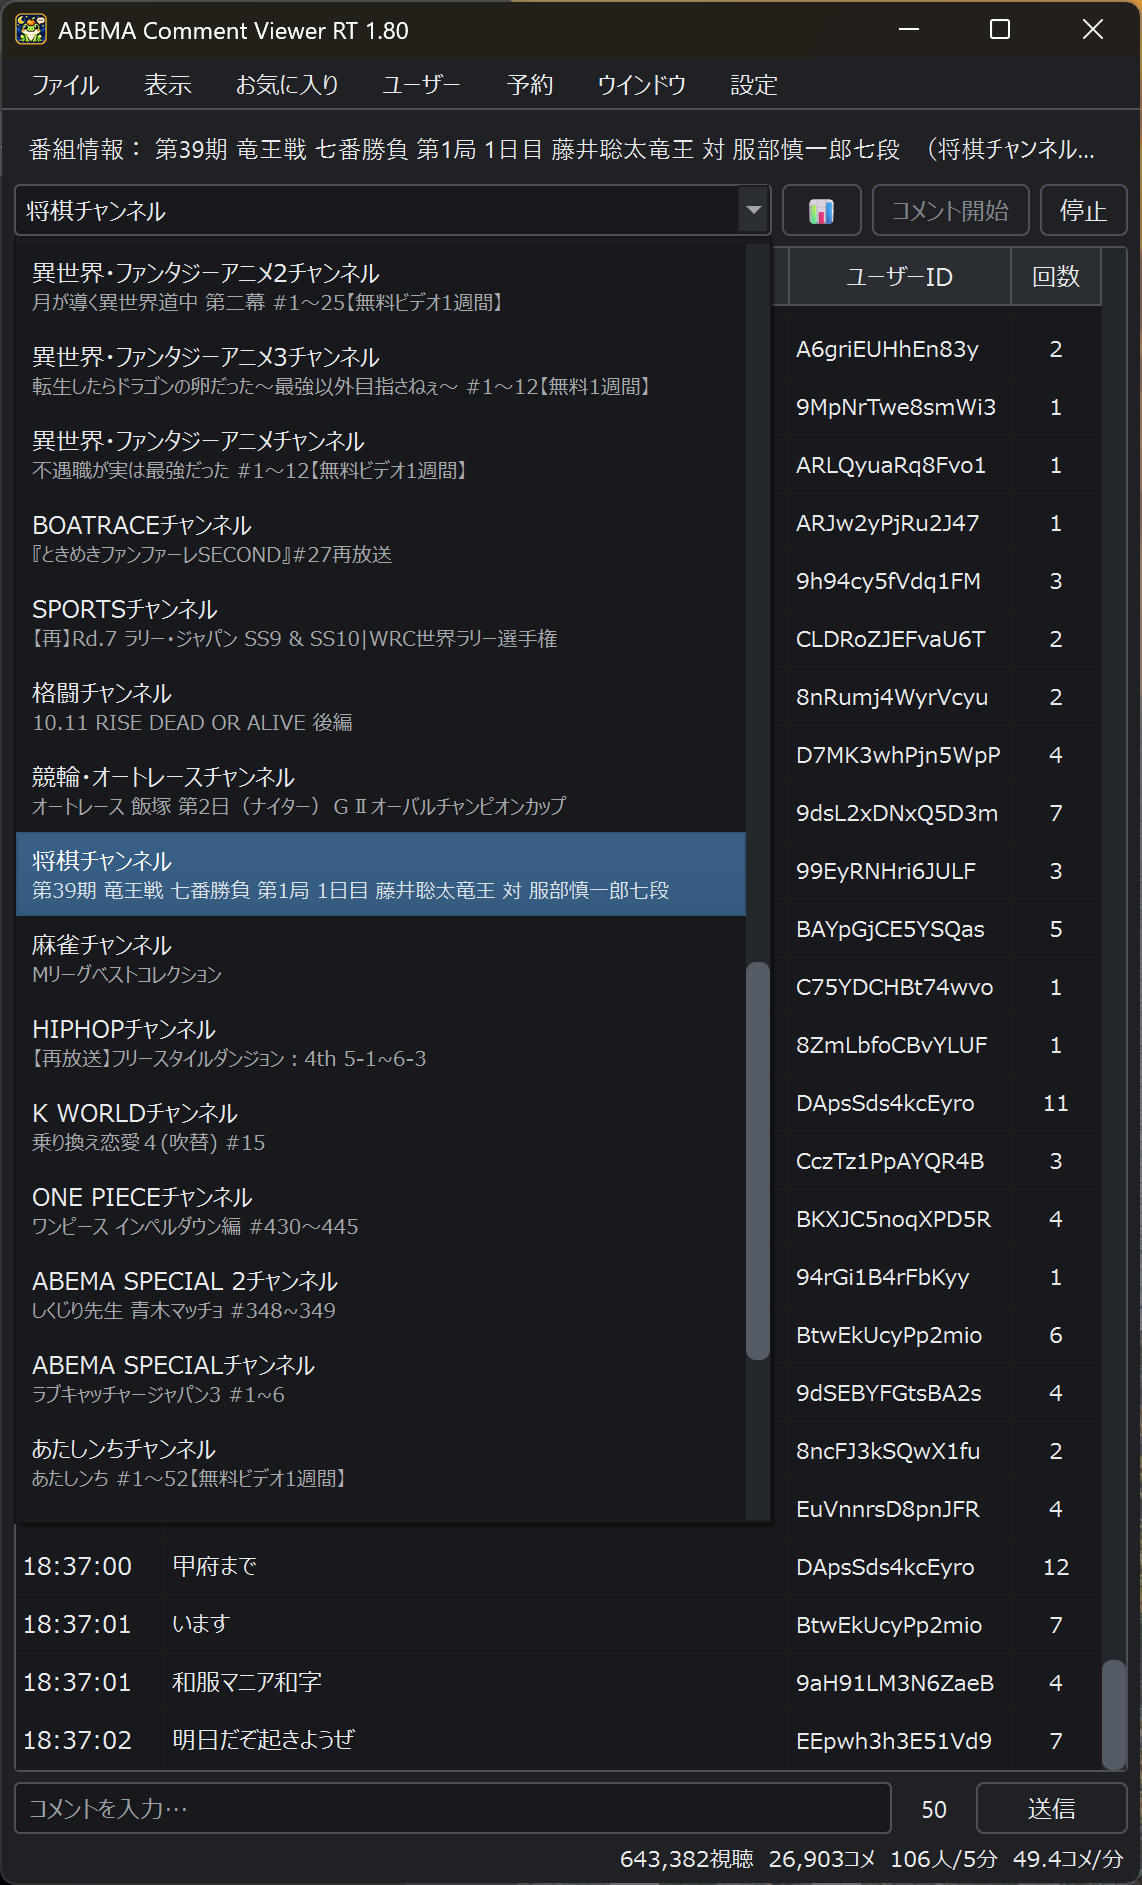
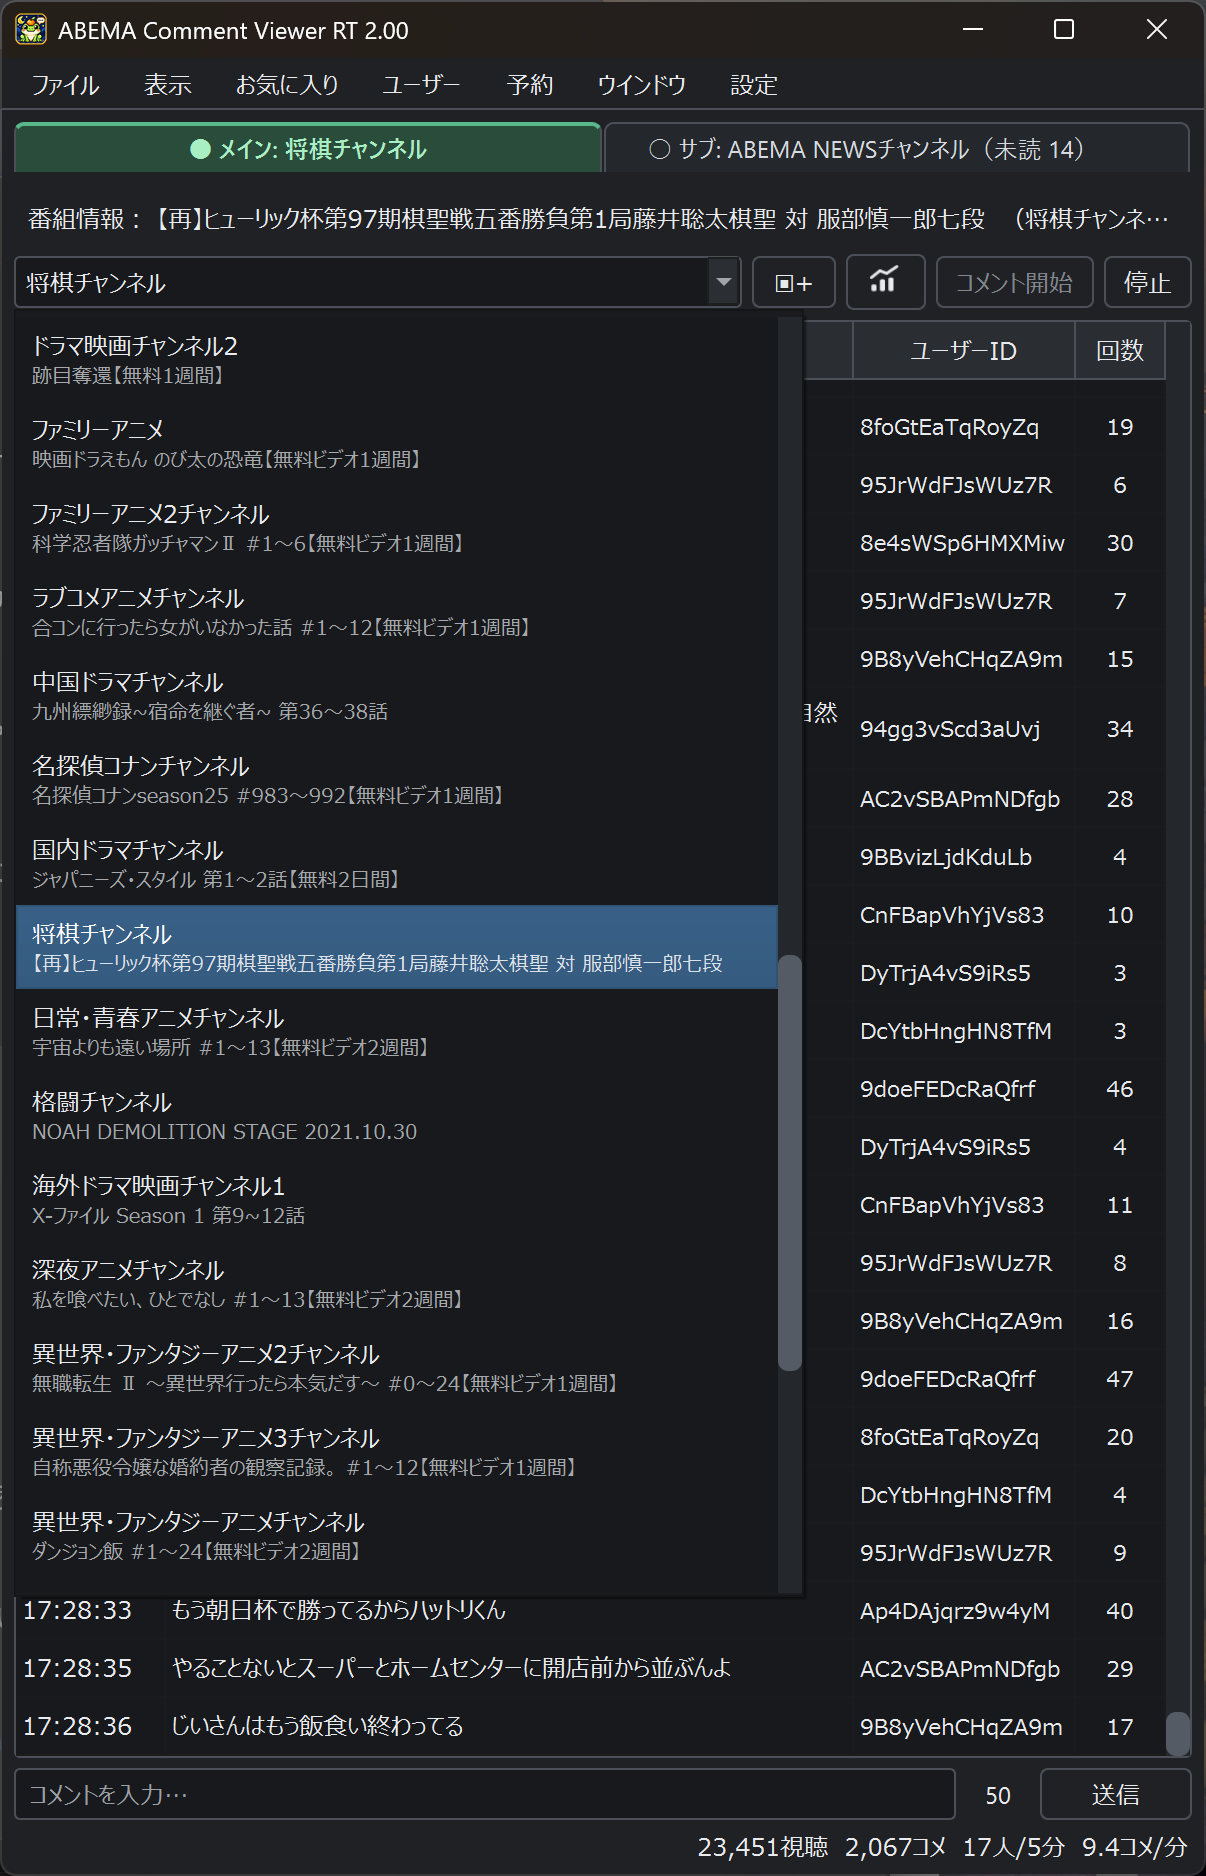
Windows 2.00の配布情報と画面を更新

diff --git a/index.html b/index.html
@@ -212,7 +212,7 @@
       .screenshot-link img { height: min(70vh, 460px); }
     }
   </style>
-  <!-- GitHub Pages refresh: Windows v1.90 -->
+  <!-- GitHub Pages refresh: Windows v2.00 -->
 </head>
 
 <body id="top">
@@ -237,7 +237,7 @@
         ABEMAのリアルタイムコメントを、<br>
         パソコンでもスマートフォンでも快適に閲覧・投稿🐸
       </p>
-      <span class="badge">Windows版 1.90</span>
+      <span class="badge">Windows版 2.00</span>
       <span class="badge">Android版 1.80</span>
       <div>
         <a class="button" href="#download">ダウンロード情報を見る</a>
@@ -303,17 +303,17 @@
       <p class="muted small">画像をクリック・タップすると、元のサイズで開きます。</p>
       <div class="panel screenshot-group">
         <h3>Windows版</h3>
-        <p class="muted small">掲載画像は1.80のものです。</p>
+        <p class="muted small">掲載画像は2.00のものです。</p>
         <div class="screenshot-pair">
           <figure>
             <a class="screenshot-link" href="windows-comments.png" target="_blank" rel="noopener" aria-label="Windows版のコメント表示画面を拡大（新しいタブ）">
-              <img src="windows-comments.png" alt="Windows版 1.80：リアルタイムコメント一覧とコメント入力欄" loading="lazy" decoding="async">
+              <img src="windows-comments.png" alt="Windows版 2.00：タブ式マルチビューのリアルタイムコメント一覧とコメント入力欄" loading="lazy" decoding="async">
             </a>
             <figcaption>コメント表示</figcaption>
           </figure>
           <figure>
             <a class="screenshot-link" href="windows-channels.png" target="_blank" rel="noopener" aria-label="Windows版のチャンネル選択画面を拡大（新しいタブ）">
-              <img src="windows-channels.png" alt="Windows版 1.80：チャンネル選択メニュー" loading="lazy" decoding="async">
+              <img src="windows-channels.png" alt="Windows版 2.00：チャンネル選択メニュー" loading="lazy" decoding="async">
             </a>
             <figcaption>チャンネル選択</figcaption>
           </figure>
@@ -344,18 +344,18 @@
       <div class="grid">
         <article class="panel">
           <p class="platform">WINDOWS</p>
-          <h3>Windows版 1.90</h3>
+          <h3>Windows版 2.00</h3>
           <p class="muted">
-            更新日：2026年10月13日<br>
+            更新日：2026年10月15日<br>
             対応環境：Windows 10 / 11<br>
             配布形式：Portable ZIP<br>
             ファイル名：<br>
-            ABEMA_Comment_Viewer_RT_1.90_Windows_x64.zip<br>
-            ファイルサイズ：49.66 MiB（52,077,138バイト）
+            ABEMA_Comment_Viewer_RT_2.00_Windows_x64.zip<br>
+            ファイルサイズ：50.21 MiB（52,653,359バイト）
           </p>
 
           <p class="download-action">
-            <a class="button" href="https://github.com/rikyatan/abema-comment-viewer-rt/releases/download/windows-v1.90/ABEMA_Comment_Viewer_RT_1.90_Windows_x64.zip">Windows版 1.90をダウンロード（ZIP）</a>
+            <a class="button" href="https://github.com/rikyatan/abema-comment-viewer-rt/releases/download/windows-v2.00/ABEMA_Comment_Viewer_RT_2.00_Windows_x64.zip">Windows版 2.00をダウンロード（ZIP）</a>
           </p>
 
           <h4>導入方法</h4>
@@ -379,15 +379,15 @@
 
           <h4>配布ZIPの検査結果</h4>
           <p>
-            <a href="https://www.virustotal.com/gui/file/b4be9eddebe9291f74d4a3b35c23c1d209458a809e0685865f4eb7a03dbb07cd?nocache=1">VirusTotalでZIPの検査結果を確認</a>
+            <a href="https://www.virustotal.com/gui/file/4acdb5279e7e21e91b7aeab4acdd9131b2b8494504e366e12a510bfff4938d87?nocache=1">VirusTotalでZIPの検査結果を確認</a>
           </p>
           <p class="muted small">
-            検査対象は、Windows版1.90の配布ZIPファイルです。
+            検査対象は、Windows版2.00の配布ZIPファイルです。
           </p>
 
           <h4>配布ZIPのSHA-256</h4>
-          <p class="muted small">対象：ABEMA_Comment_Viewer_RT_1.90_Windows_x64.zip</p>
-          <code class="hash">b4be9eddebe9291f74d4a3b35c23c1d209458a809e0685865f4eb7a03dbb07cd</code>
+          <p class="muted small">対象：ABEMA_Comment_Viewer_RT_2.00_Windows_x64.zip</p>
+          <code class="hash">4acdb5279e7e21e91b7aeab4acdd9131b2b8494504e366e12a510bfff4938d87</code>
         </article>
 
         <article class="panel" id="android-download">
@@ -448,6 +448,11 @@
           <h3>Windows版</h3>
           <ul class="history">
             <li>
+              <time datetime="2026-10-15">2026/10/15</time>
+              <strong>2.00</strong>
+              <p><strong>タブ式マルチビューを追加</strong>。メイン・サブで別チャンネルを同時受信でき、タブごとにコメント履歴、未読、分析、検索、ログ保存を保持。<strong>操作性を調整</strong>。Ctrl+Fで検索欄を開けるようにし、新規利用時の表示項目を見やすい初期構成へ調整。トークン操作を設定内の専用画面へ集約。</p>
+            </li>
+            <li>
               <time datetime="2026-10-13">2026/10/13</time>
               <strong>1.90</strong>
               <p>番組分析を拡張（投稿回数分布・単発投稿・コメント推移グラフ）。推移グラフから指定時刻のコメントへ移動可能に。分析表示や視聴者数表示を見やすく調整。</p>
@@ -466,11 +471,6 @@
               <time datetime="2026-10-06">2026/10/06</time>
               <strong>1.70</strong>
               <p>スリープ復帰後のコメント取得を改善。更新確認機能を追加。</p>
-            </li>
-            <li>
-              <time datetime="2026-10-04">2026/10/04</time>
-              <strong>1.65</strong>
-              <p>予約コメント機能を追加。ログビューアで検索結果をCSV／Excel形式で保存可能に。</p>
             </li>
           </ul>
         </div>

diff --git a/history.html b/history.html
@@ -212,7 +212,7 @@
       .screenshot-link img { height: min(70vh, 460px); }
     }
   </style>
-  <!-- GitHub Pages refresh: Windows v1.90 -->
+  <!-- GitHub Pages refresh: Windows v2.00 -->
 </head>
 
 <body id="top">
@@ -237,6 +237,11 @@
         <div class="panel">
           <h3>Windows版</h3>
           <ul class="history">
+            <li>
+              <time datetime="2026-10-15">2026/10/15</time>
+              <strong>2.00</strong>
+              <p><strong>タブ式マルチビューを追加</strong>。メイン・サブで別チャンネルを同時受信でき、タブごとにコメント履歴、未読、分析、検索、ログ保存を保持。<strong>操作性を調整</strong>。Ctrl+Fで検索欄を開けるようにし、新規利用時の表示項目を見やすい初期構成へ調整。トークン操作を設定内の専用画面へ集約。</p>
+            </li>
             <li>
               <time datetime="2026-10-13">2026/10/13</time>
               <strong>1.90</strong>
